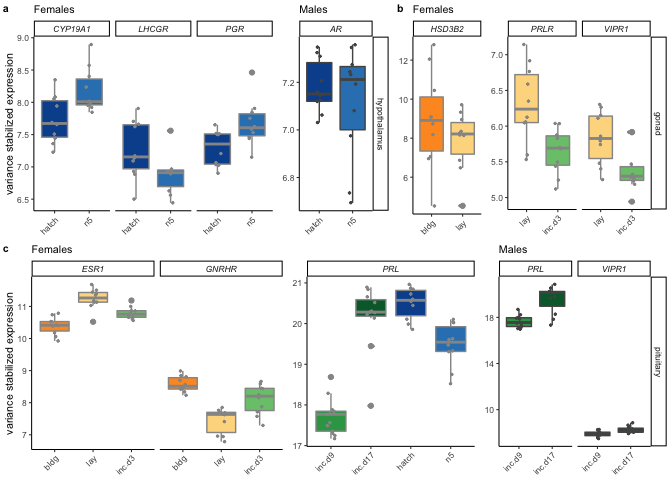
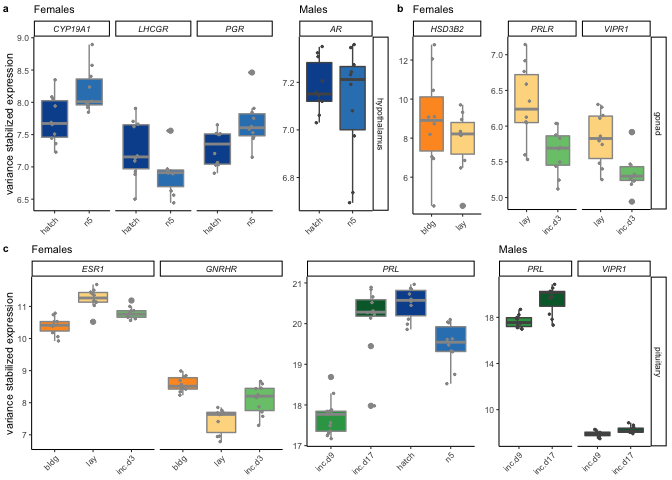
fig tweeks

diff --git a/analysis/figure-3.md b/analysis/figure-3.md
@@ -6,14 +6,14 @@ candidate genes
 
     library(tidyverse)
 
-    ## ── Attaching packages ────────────────────────────────────────────────────────────────────────────────────────────── tidyverse 1.3.0 ──
+    ## ── Attaching packages ─────────────────────────── tidyverse 1.3.0 ──
 
     ## ✓ ggplot2 3.3.0.9000     ✓ purrr   0.3.3     
     ## ✓ tibble  2.1.3          ✓ dplyr   0.8.3     
     ## ✓ tidyr   1.0.0          ✓ stringr 1.4.0     
     ## ✓ readr   1.3.1          ✓ forcats 0.4.0
 
-    ## ── Conflicts ───────────────────────────────────────────────────────────────────────────────────────────────── tidyverse_conflicts() ──
+    ## ── Conflicts ────────────────────────────── tidyverse_conflicts() ──
     ## x dplyr::filter() masks stats::filter()
     ## x dplyr::lag()    masks stats::lag()
 
@@ -814,7 +814,10 @@ Figs
     ## 20                                    
     ## 21          .09
 
-    plot_grid(a,b,c, d,e,f, nrow = 2, rel_widths = c(1.2,1,1), rel_heights = c(1,1.2))
+    plot_grid(a,b,c, d,e,f, nrow = 2, rel_widths = c(1.2,1,1), rel_heights = c(1,1.2),
+              labels = c("females", " ", " ",
+                         "males", " ", ""),
+              label_size = 8)
 
 ![](../figures/fig3-2.png)
 
